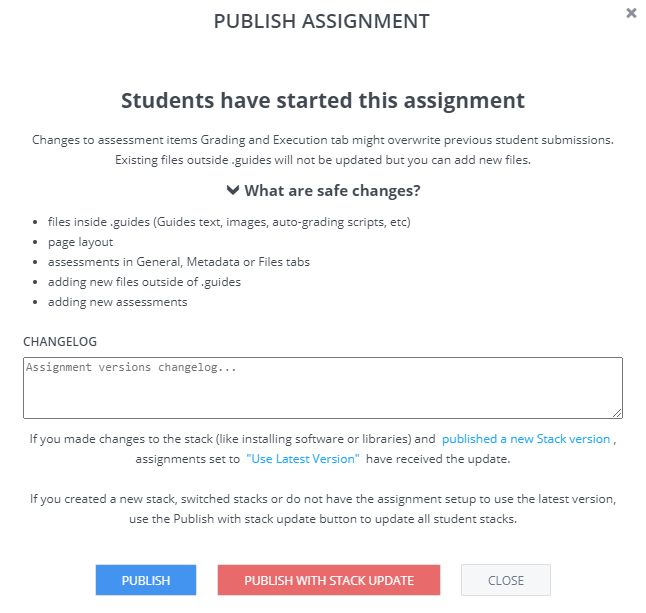
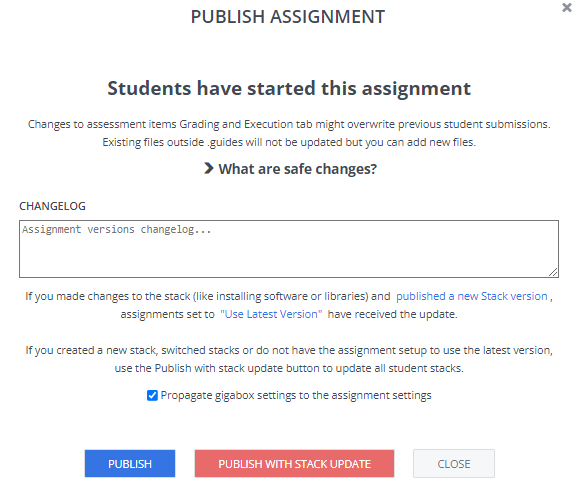
13826 (#153)
* changelog #13826

* update changelog

* typos

diff --git a/source/common/develop/projects/project-settings.rst b/source/common/develop/projects/project-settings.rst
@@ -15,7 +15,10 @@ The Settings page within a project includes various options for specifying setti
 - Protect Dynamic Ports. Enable to restrict preview to the owner of the box; disable to allow preview of the box to anyone who knows the box url. This setting is only available from **Project > Settings**.
 - Stack Settings - specify current stack and version used in your project.
 - Forwarding Settings - enable SSH forwarding. See :ref:`Access Codio Box via SSH <ssh>` for more information.
-- Gigaboxes Settings - set this to a larger size if you have a memory intensive project. You must first request a larger box for your organization. Contact help@codio.com to initiate this discussion. If you add your project to a course as an assignment, you need to set the Gigabox usage in the course :ref:`assignment settings <assignment-gigabox>`.
+- Gigaboxes Settings - set this to a larger size if you have a memory intensive project. You must first request a larger box for your organization. Contact help@codio.com to initiate this discussion. If you add your project to a course as an assignment, as you publish your assignment, the **Propagate gigabox settings to the assignment settings** option on the publish assignment dialog will show. By default it is enabled but you can disable it if you choose.
+
+.. image:: /img/propagate.png
+   :alt: Publish Dialog
 
 You can also perform the following tasks from the project settings:
 

diff --git a/source/instructors/setupcourses/assignment-settings/assignment-gigabox.rst b/source/instructors/setupcourses/assignment-settings/assignment-gigabox.rst
@@ -6,8 +6,14 @@
 
 Gigabox Slot
 ========================
-If you have a memory intensive assignment, you can specify here that it should use a Gigabox slot. Gigabox slots are allocated on an :ref:`organization level <gigabox-usage>`. You must change this assignment setting in the course, it isn't sufficient to set a larger Gigabox in the assignment. 
+If you have a memory intensive assignment, you can specify here that it should use a Gigabox slot. Gigabox slots are allocated on an :ref:`organization level <gigabox-usage>`. 
 
   .. image:: /img/gigaboxassignment.png
      :alt: Setting Giga box usage
 
+As you publish your assignment, the **Propagate gigabox settings to the assignment settings** option on the publish assignment dialog will show and will also show if you publish a new version and the gigabox setting for the working copy is different to that set for the assignment. See :ref:`Modify Assignments <modify-assignments>` for more information.
+
+By default it is enabled but you can disable it if you choose.
+
+.. image:: /img/propagate.png
+   :alt: Publish Dialog

diff --git a/source/instructors/setupcourses/modify-assignments.rst b/source/instructors/setupcourses/modify-assignments.rst
@@ -23,6 +23,7 @@ When you make changes to an assignment and attempt to re-publish it, if students
 .. image:: /img/updateassignment.png
    :alt: Update Assignment
 
+.. Note:: The **Propagate gigabox settings to the assignment settings** option will show if the :ref:`gigabox <assignment-gigabox>` setting for the working copy is different to that set for the assignment. By default it is enabled but you can disable it if you choose.
 
 Reset assignment for individual student
 ---------------------------------------

diff --git a/source/instructors/getstarted/support/changelog.rst b/source/instructors/getstarted/support/changelog.rst
@@ -15,6 +15,8 @@ We do not report small bug fixes or issues that affect individual users, who we 
 
 
 **March 2022**
+
+- `[I] [30th]`: Improve messaging if publishing assignments with :ref:`gigabox <assignment-gigabox> slots enabled
 - `[F] [29th]`: Add :ref:`All <search-courses>` tab to courses dashboard to allow owners to see only courses they are a teacher in
 - `[F] [29th]`: Add support for :ref:`solution file templating <solutionfile>` 
 
